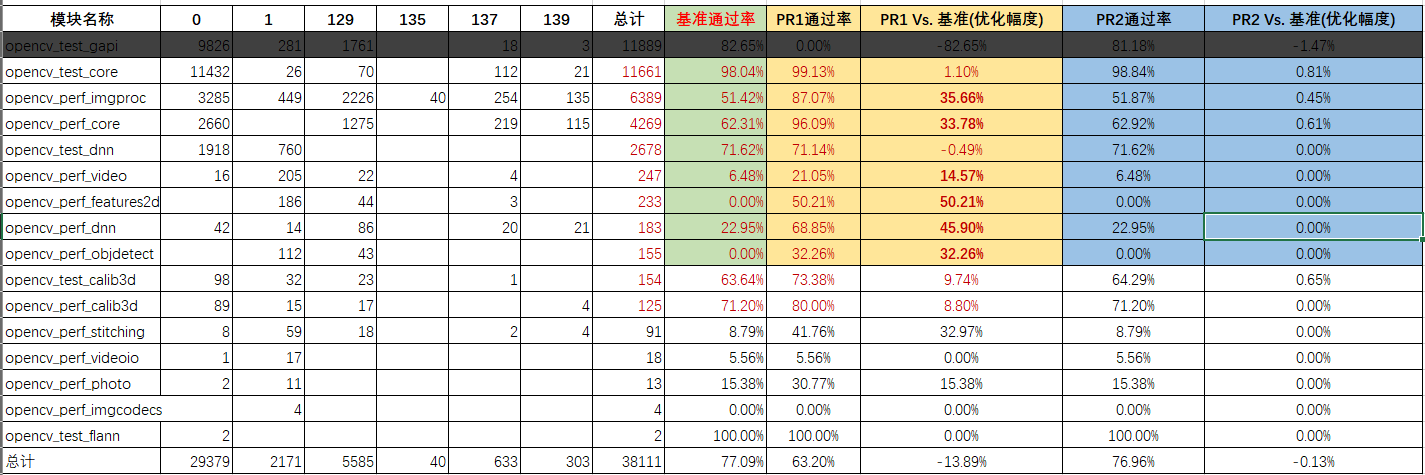
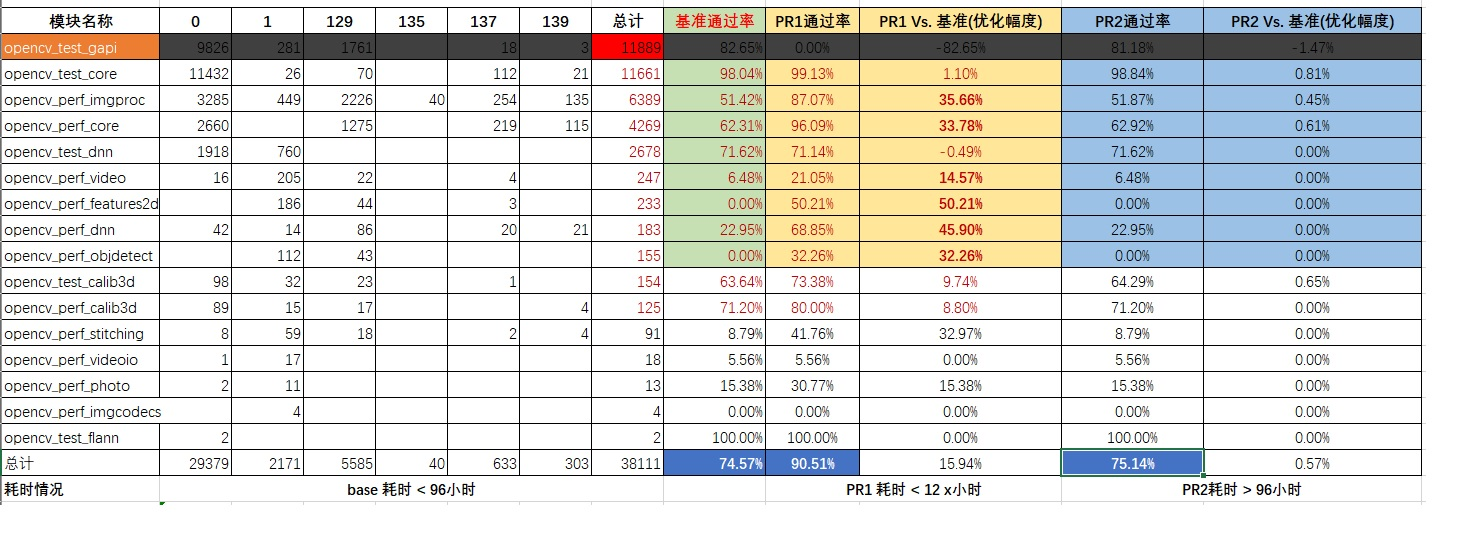
Update results for S2305

diff --git a/Results/Verifications/S2309/README.md b/Results/Verifications/S2309/README.md
@@ -37,7 +37,7 @@ https://github.com/plctlab/rvspoc-s2309-opencv/pull/2 银河护卫队
     ```
 
 - 测试结果统计
-我们按照模块的包含的用例总数进行降序排序，重点看优化幅度一项，优化幅度大于 10% 且用例总数大于 125 个的模块做了加粗效果。
+我们按照模块的包含的用例总数进行降序排序，重点看优化幅度一项，优化幅度大于 10% 且用例总数大于 125 个的模块做了加粗效果。图表左侧列出了 OpenCV 模块名称，底部蓝色背景区域的数据表示基准测试、PR1 和 PR2 的总体通过率（过滤了 opencv_test_gapi 模块的结果数据）。最底部一栏列出了三组测试的总体耗时情况。
 
     ![round1-statistic](./round1-stastic.png)
 
@@ -49,16 +49,16 @@ https://github.com/plctlab/rvspoc-s2309-opencv/pull/2 银河护卫队
 
     注意！第二轮测试，只选了一个模块用于回归测试，侧重于性能测试
 - 测试模块
-```
-opencv_perf_imgproc
-opencv_perf_core
-opencv_perf_features2d
-opencv_perf_dnn
-opencv_test_imgproc
-```
+    ```
+    opencv_perf_imgproc
+    opencv_perf_core
+    opencv_perf_features2d
+    opencv_perf_dnn
+    opencv_test_imgproc
+    ```
 
 - 测试结果
-![round2-stastiic](./round2-stastic.png)
+    ![round2-stastiic](./round2-stastic.png)
 
 
 ## 验证步骤
